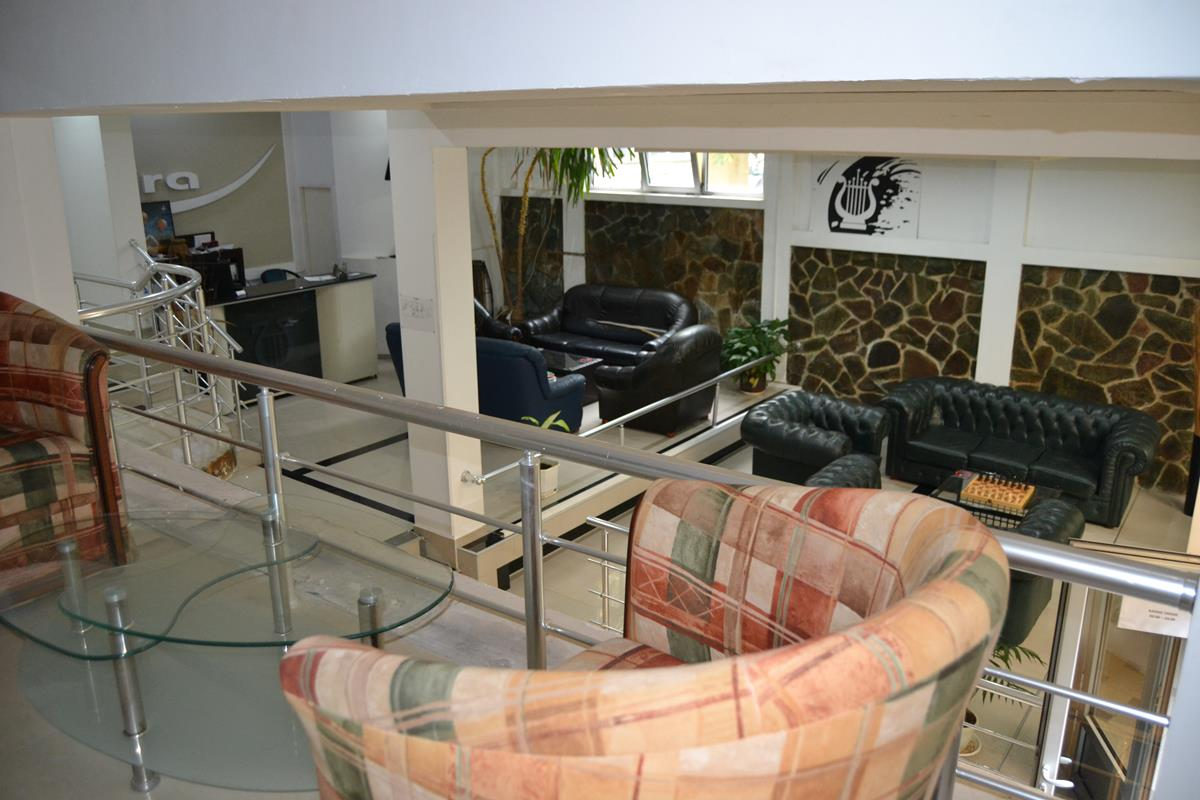
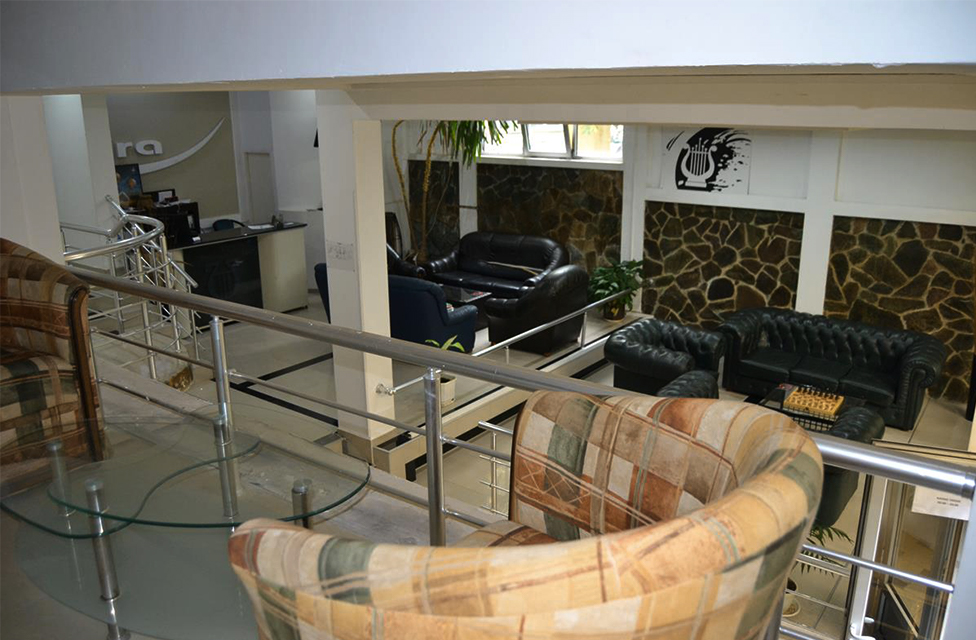
Changed old images with new ones

diff --git a/html/restoran.html b/html/restoran.html
@@ -266,7 +266,7 @@
         </div>
 
         <img
-          src="../img/restaurant/restaurant-about-us.JPG"
+          src="../img/restaurant/restaurant-about-us-2.JPG"
           alt=""
           class="restaurant-events__img"
         />
@@ -277,34 +277,34 @@
 
         <div class="gallery-wrapper">
           <img
-            src="../img/home/home-gallery-1.JPG"
+            src="../img/restaurant/restaurant-gallery-1.jpg"
             alt=""
             class="gallery-img"
           />
           <img
-            src="../img/home/home-gallery-2.JPG"
+            src="../img/restaurant/restaurant-gallery-2.jpg"
             alt=""
             class="gallery-img"
           />
           <img
-            src="../img/home/home-gallery-3.JPG"
+            src="../img/restaurant/restaurant-gallery-3.jpg"
             alt=""
             class="gallery-img"
           />
         </div>
         <div class="gallery-wrapper gallery-wrapper--reverse">
           <img
-            src="../img/home/home-gellery-4.JPG"
+            src="../img/restaurant/restaurant-gallery-4.jpg"
             alt=""
             class="gallery-img"
           />
           <img
-            src="../img/home/home-gallery-5.JPG"
+            src="../img/restaurant/restaurant-gallery-5.jpg"
             alt=""
             class="gallery-img"
           />
           <img
-            src="../img/home/home-gallery-6.JPG"
+            src="../img/restaurant/restaurant-gallery-6.jpg"
             alt=""
             class="gallery-img"
           />

diff --git a/index.html b/index.html
@@ -440,11 +440,11 @@
 
         <div class="gallery-wrapper">
           <img src="./img/home/home-gallery-1.JPG" alt="" class="gallery-img" />
-          <img src="./img/home/home-gallery-2.JPG" alt="" class="gallery-img" />
-          <img src="./img/home/home-gallery-3.JPG" alt="" class="gallery-img" />
+          <img src="./img/home/home-gallery-2.jpg" alt="" class="gallery-img" />
+          <img src="./img/home/home-gallery-3.jpg" alt="" class="gallery-img" />
         </div>
         <div class="gallery-wrapper gallery-wrapper--reverse">
-          <img src="./img/home/home-gellery-4.JPG" alt="" class="gallery-img" />
+          <img src="./img/home/home-gallery-4.jpg" alt="" class="gallery-img" />
           <img src="./img/home/home-gallery-5.JPG" alt="" class="gallery-img" />
           <img src="./img/home/home-gallery-6.JPG" alt="" class="gallery-img" />
         </div>

diff --git a/css/style.css b/css/style.css
@@ -587,7 +587,6 @@ button {
 }
 .gallery-img {
   width: 100%;
-  height: 32rem;
   box-shadow: 0px 0px 2px 3px rgba(34, 33, 31, 0.1);
 }
 
@@ -1365,7 +1364,7 @@ button {
 }
 .restaurant-events__imgs-item {
   width: 30%;
-  aspect-ratio: 4/3;
+  padding: 3.2rem 0;
   display: grid;
   place-items: center;
 }

diff --git a/sass/pages/_restaurant.scss b/sass/pages/_restaurant.scss
@@ -25,7 +25,7 @@
 
     &-item {
       width: 30%;
-      aspect-ratio: 4/3;
+      padding: 3.2rem 0;
       display: grid;
       place-items: center;
       &--birthday {

diff --git a/sass/components/_gallery.scss b/sass/components/_gallery.scss
@@ -22,7 +22,8 @@
 
   &-img {
     width: 100%;
-    height: 32rem;
+    // height: 32rem;
+    // aspect-ratio: 1/1;
     box-shadow: $box-shadow;
   }
 }
